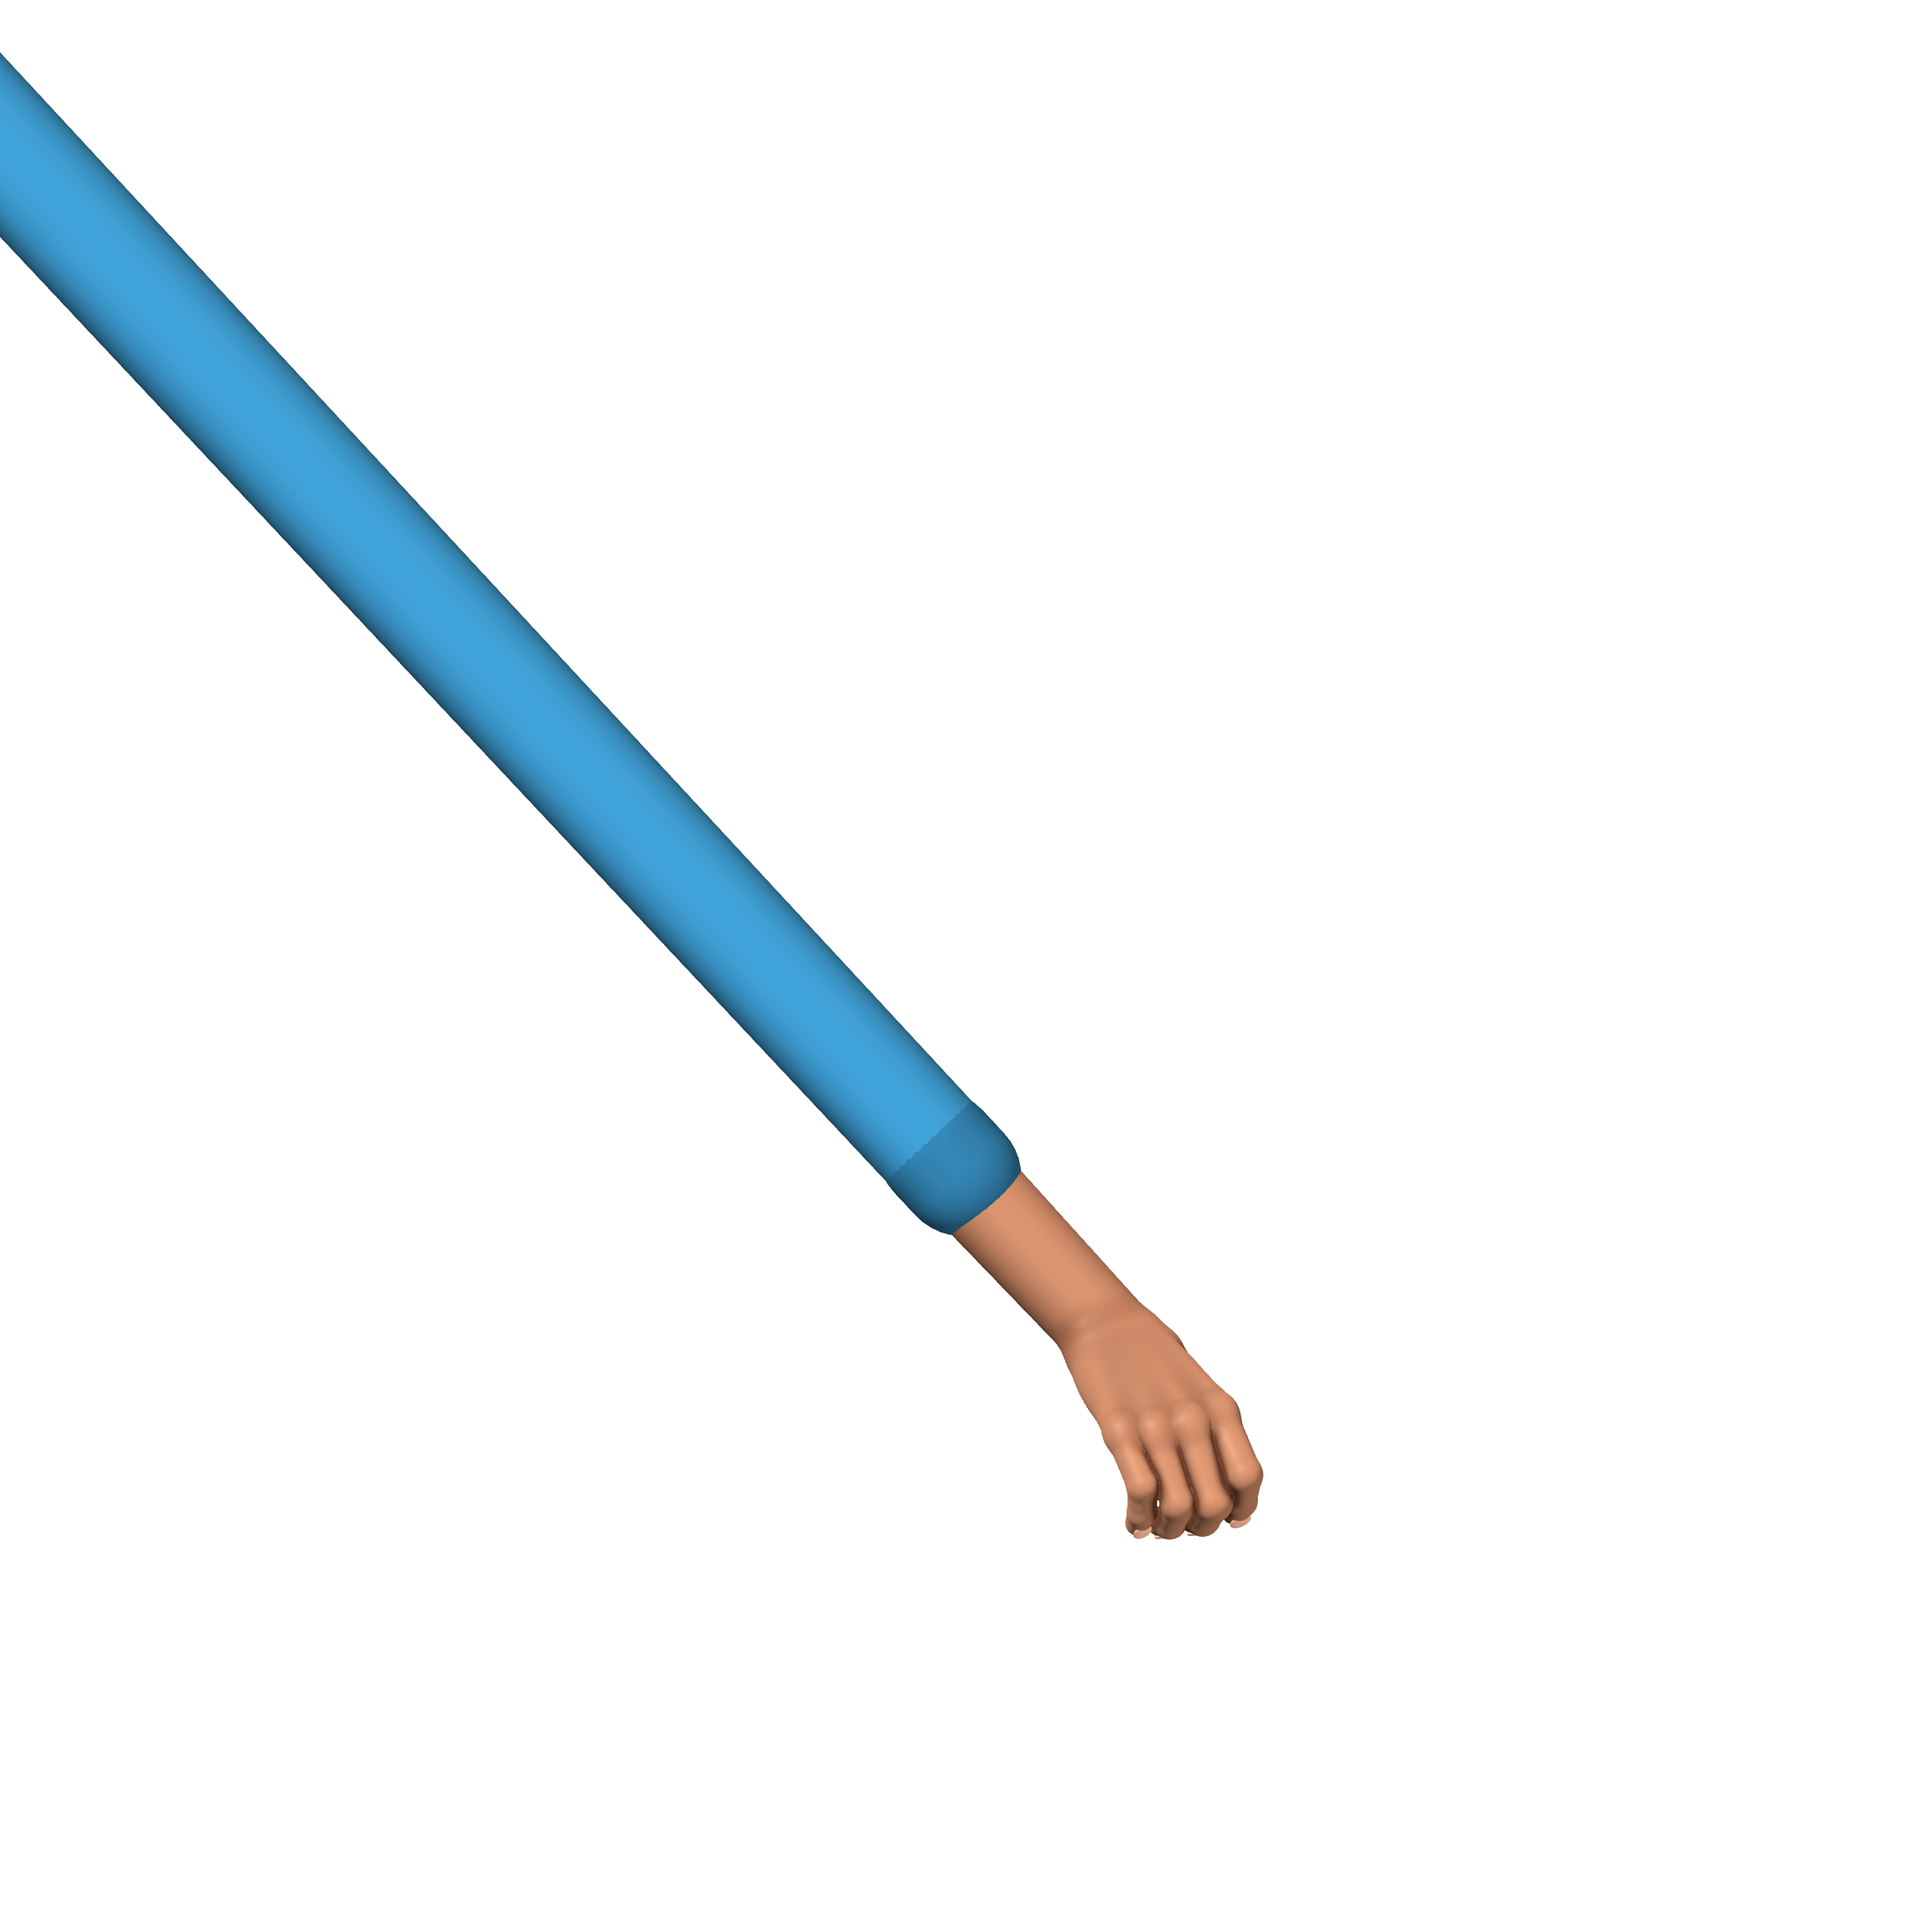
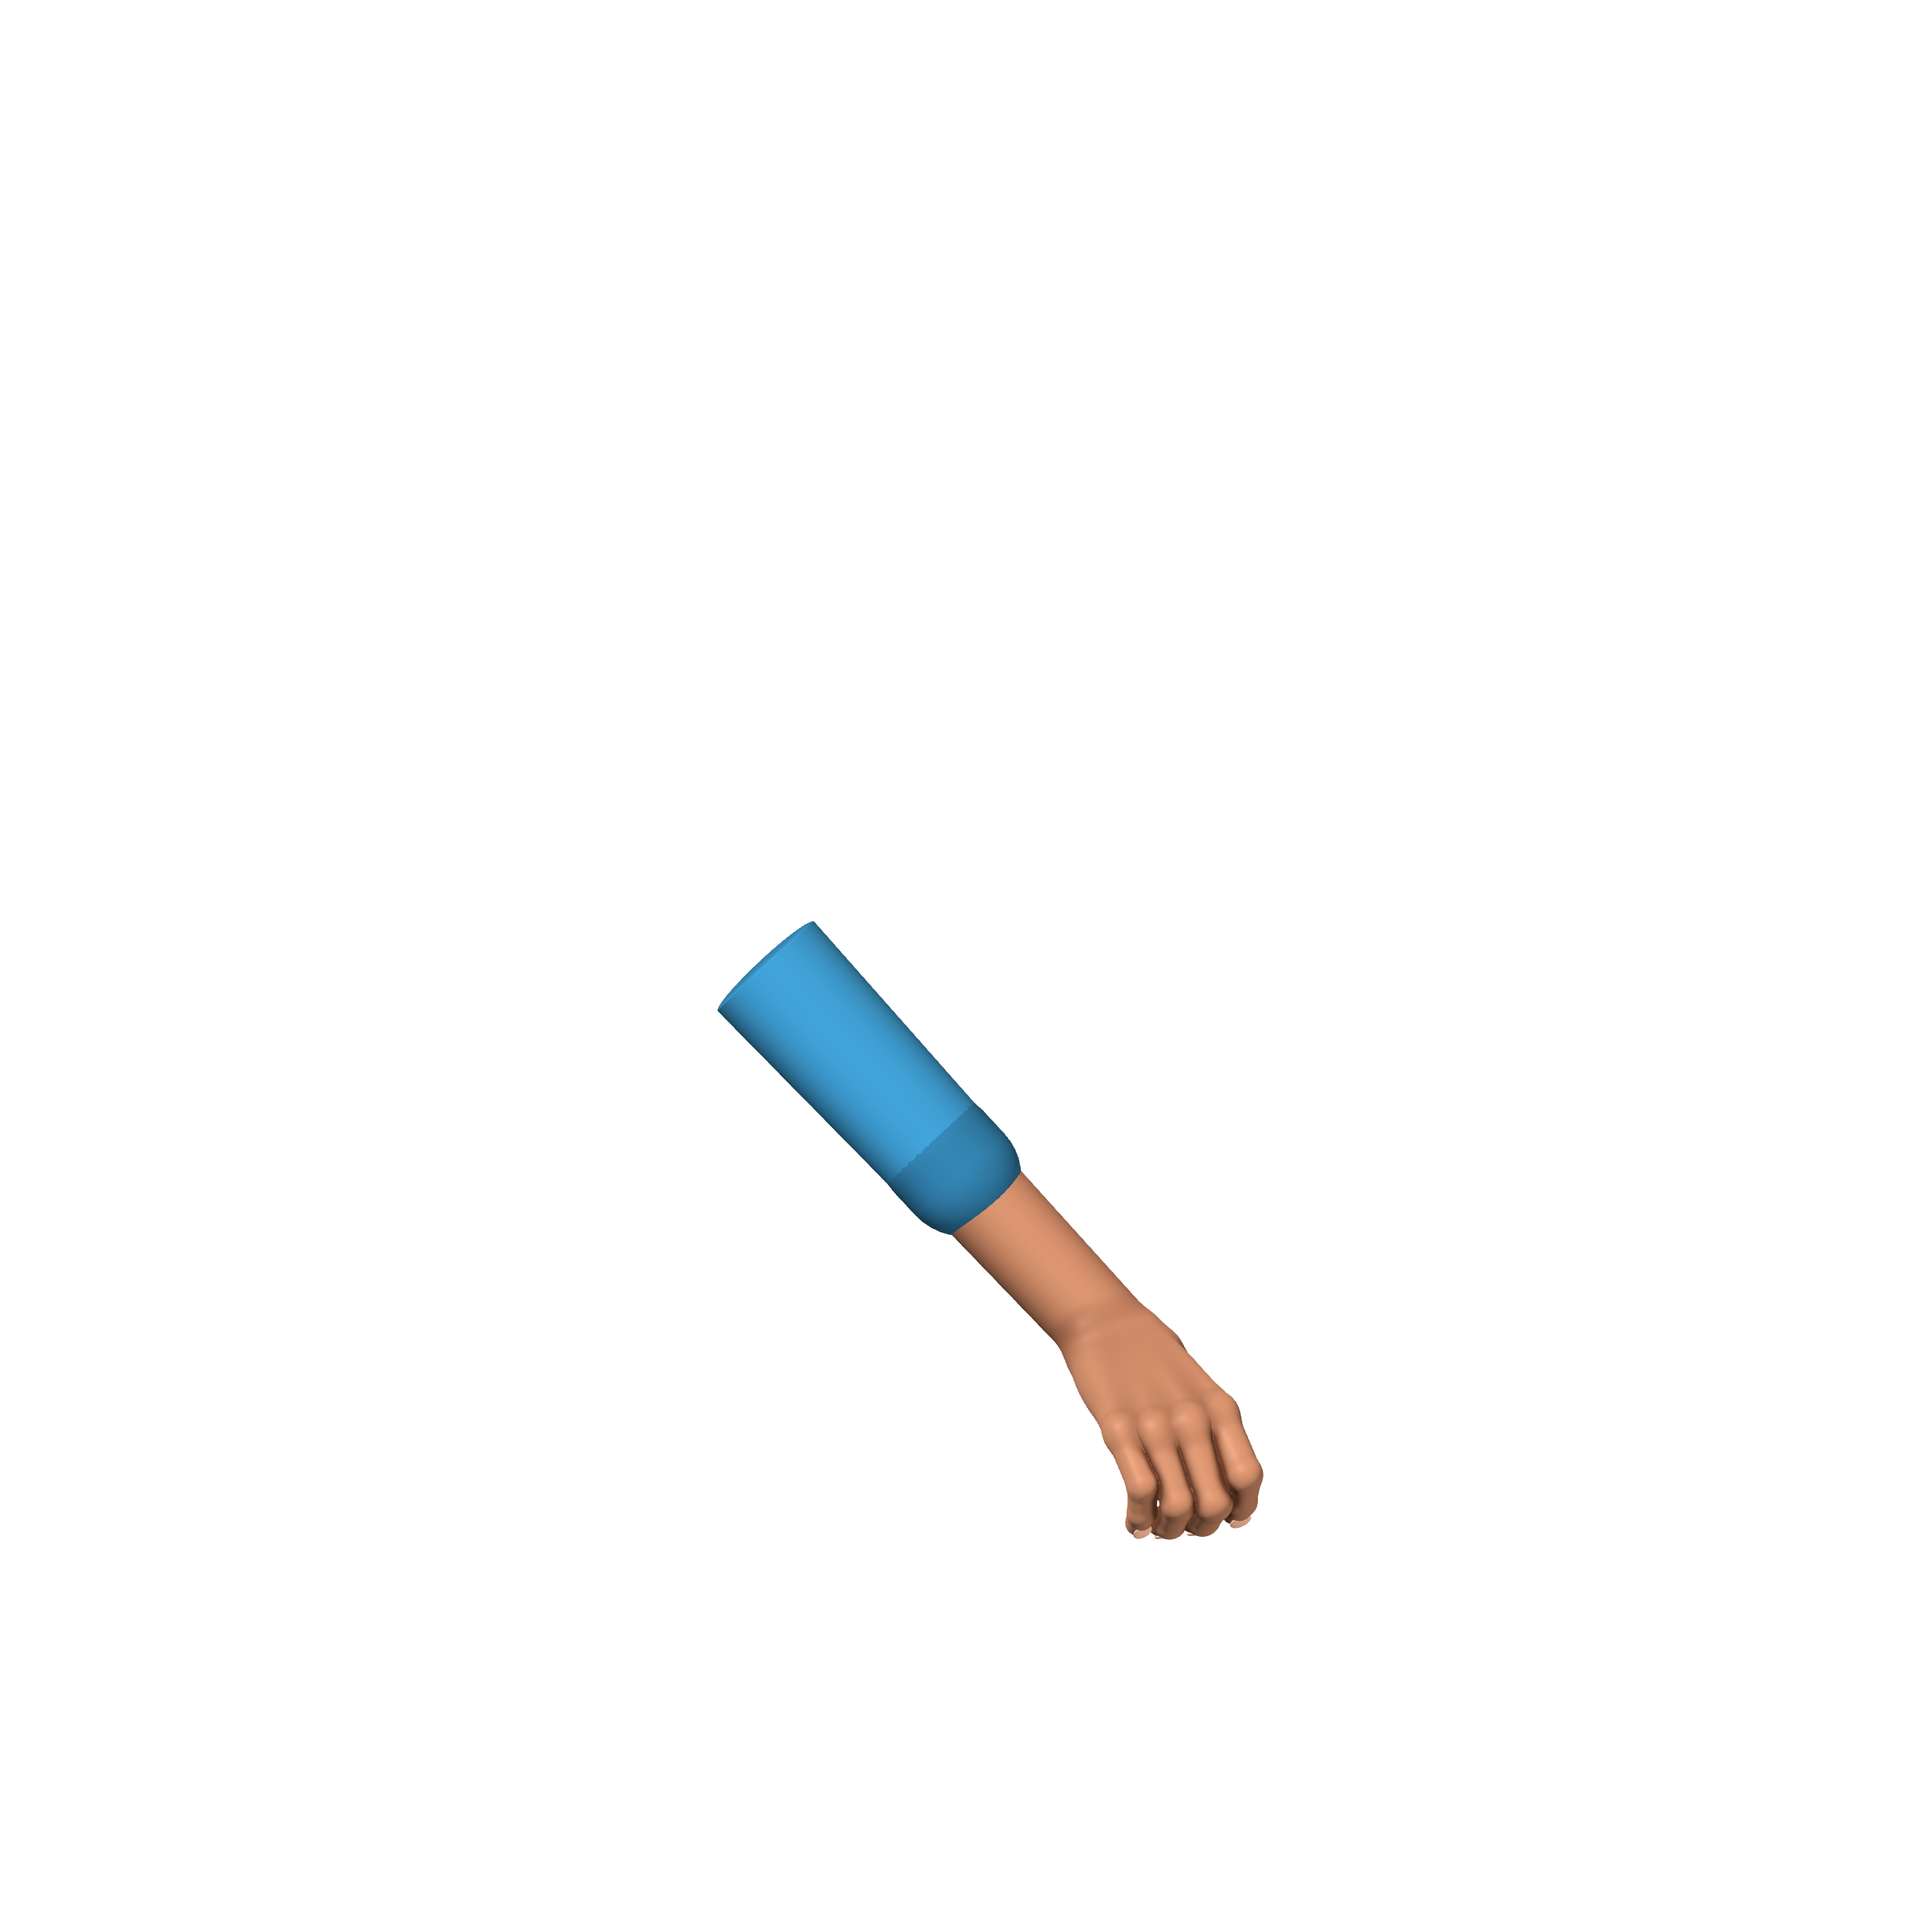
Gripping hand: sleeve ends near the elbow
Claude-Session: https://claude.ai/code/session_01XvjNirtdfRE6ZrCruVbZTG

Changed region(s): [[0.0, 0.0312, 0.4375, 0.5625], [0.4375, 0.5, 0.4688, 0.5312]]

diff --git a/class6-ch11-bol-1/parts/s05_p06.js b/class6-ch11-bol-1/parts/s05_p06.js
@@ -21,7 +21,7 @@ part('s05_p06', { scene: 5, label: '৫চ', last: true, title: "চিত্র
   u += lab(sx, sy - 0.2 * pm, 'ভারী পাথর', 'name', S.P(0, 0.75, 0.85));
   /* arrows: 1 N = 0.55 px, straight down; weight from the middle of the heavy stone, the hand's force from the rod */
   const W = LV.M * LV.G, N = 0.62, a1 = S.P(1, 0.3, 0.6), a2 = t >= S.A(3) ? S.P(3, 0.3, 0.45) : 0;
-  const f = lvForce(th) * N * ease(a1); const ay = hy + pm * 0.075; s += arrow2(hx, ay, hx, ay + f, a1, Y); u += lab(hx - 180, ay + f * 0.55, 'হাতের বল', 'move', a1);
+  const f = lvForce(th) * N * ease(a1); const ay = hy + pm * 0.075; s += arrow2(hx, ay, hx, ay + f, a1, Y); u += lab(hx - 150, ay + f * 0.55, 'হাতের বল', 'move', a1);
   if (a2) { s += arrow2(sx, sy, sx, sy + W * N * ease(a2), a2, '#ff6b5e'); u += lab(sx + 235, sy + W * N * 0.5, 'পাথরের ভার', 'move', a2); }
   return { gl: true, svg: s, ui: u };
 });

diff --git a/science-video-template/hand/make_grip.py b/science-video-template/hand/make_grip.py
@@ -38,7 +38,8 @@ Object.assign(POSE, P);
 // rebuild
 while (scene.children.length) scene.remove(scene.children[0]);
 const hem = new T3.HemisphereLight(0xffffff, 0x6e5f56, 0.75); scene.add(hem, key, key.target, fill, fill.target);
-const b2 = HAND.build(POSE); scene.add(b2.hand); const sk = SKIN3D.apply(b2, POSE, HAND.M);
+const b2 = HAND.build(POSE); b2.arm.children[1].scale.y = 150 / 1275;   // the sleeve ends near the elbow: 275 mm x size = 23 cm from the wrist
+scene.add(b2.hand); const sk = SKIN3D.apply(b2, POSE, HAND.M);
 sk.tip.layers.set(0); b2.hand.traverse(o => o.layers.set(0));
 const rod = new T3.Mesh(new T3.CylinderGeometry(R, R, 900, 48), new T3.MeshStandardMaterial({ color: 0xa9743f, roughness: 0.8 }));
 const mid = A0.clone().lerp(A1, 0.45); rod.position.copy(mid); rod.quaternion.setFromUnitVectors(V3(0, 1, 0), ax); scene.add(rod);
